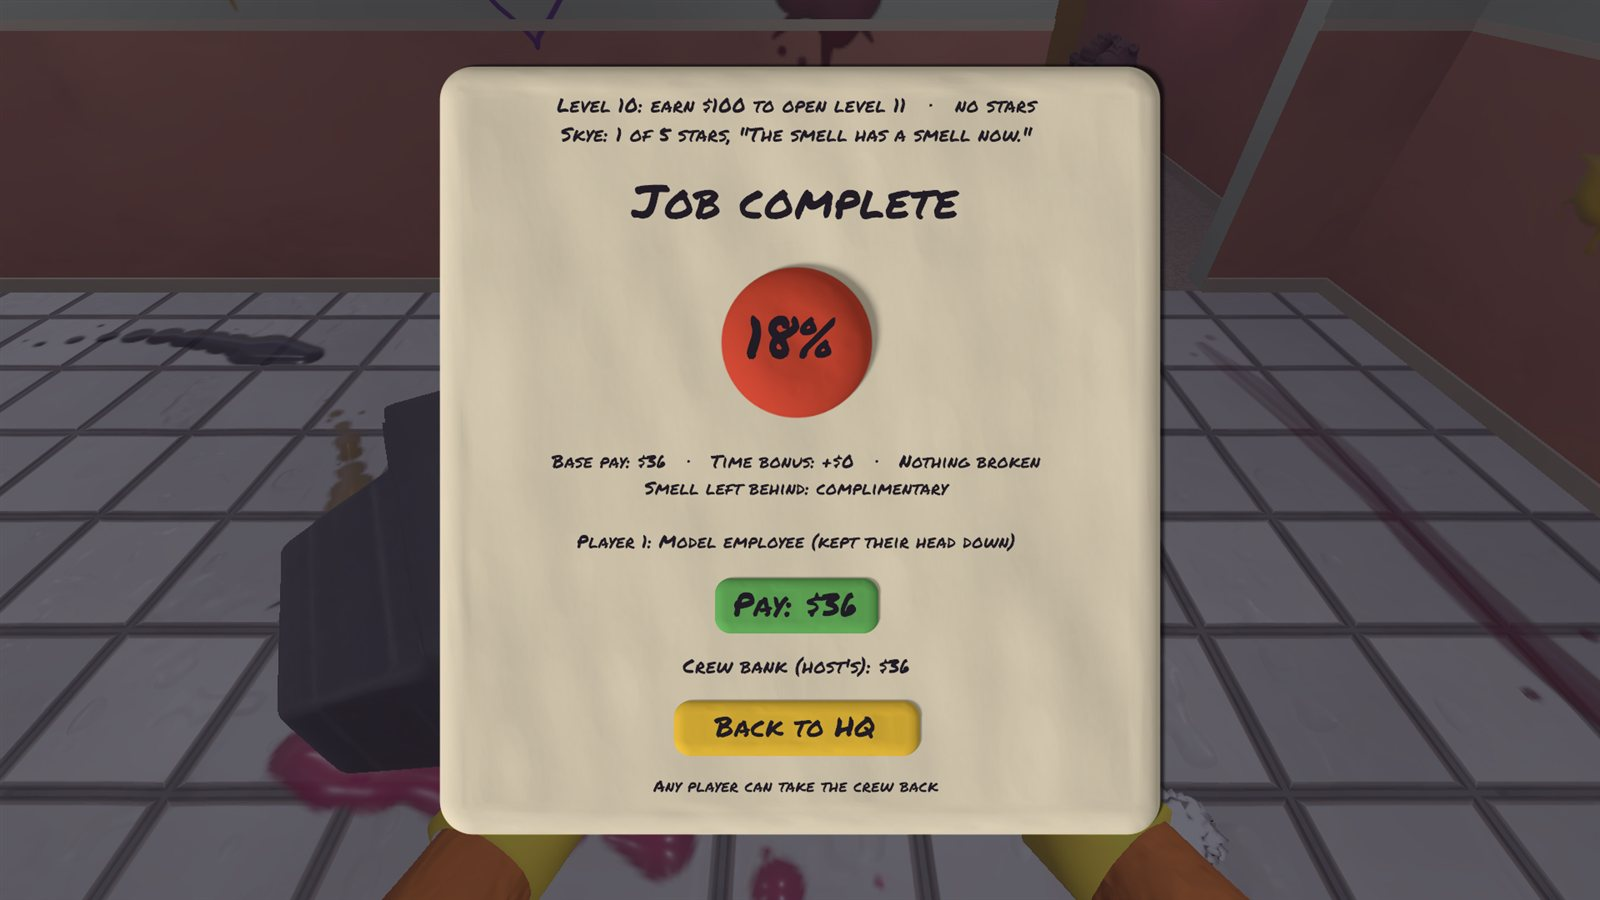
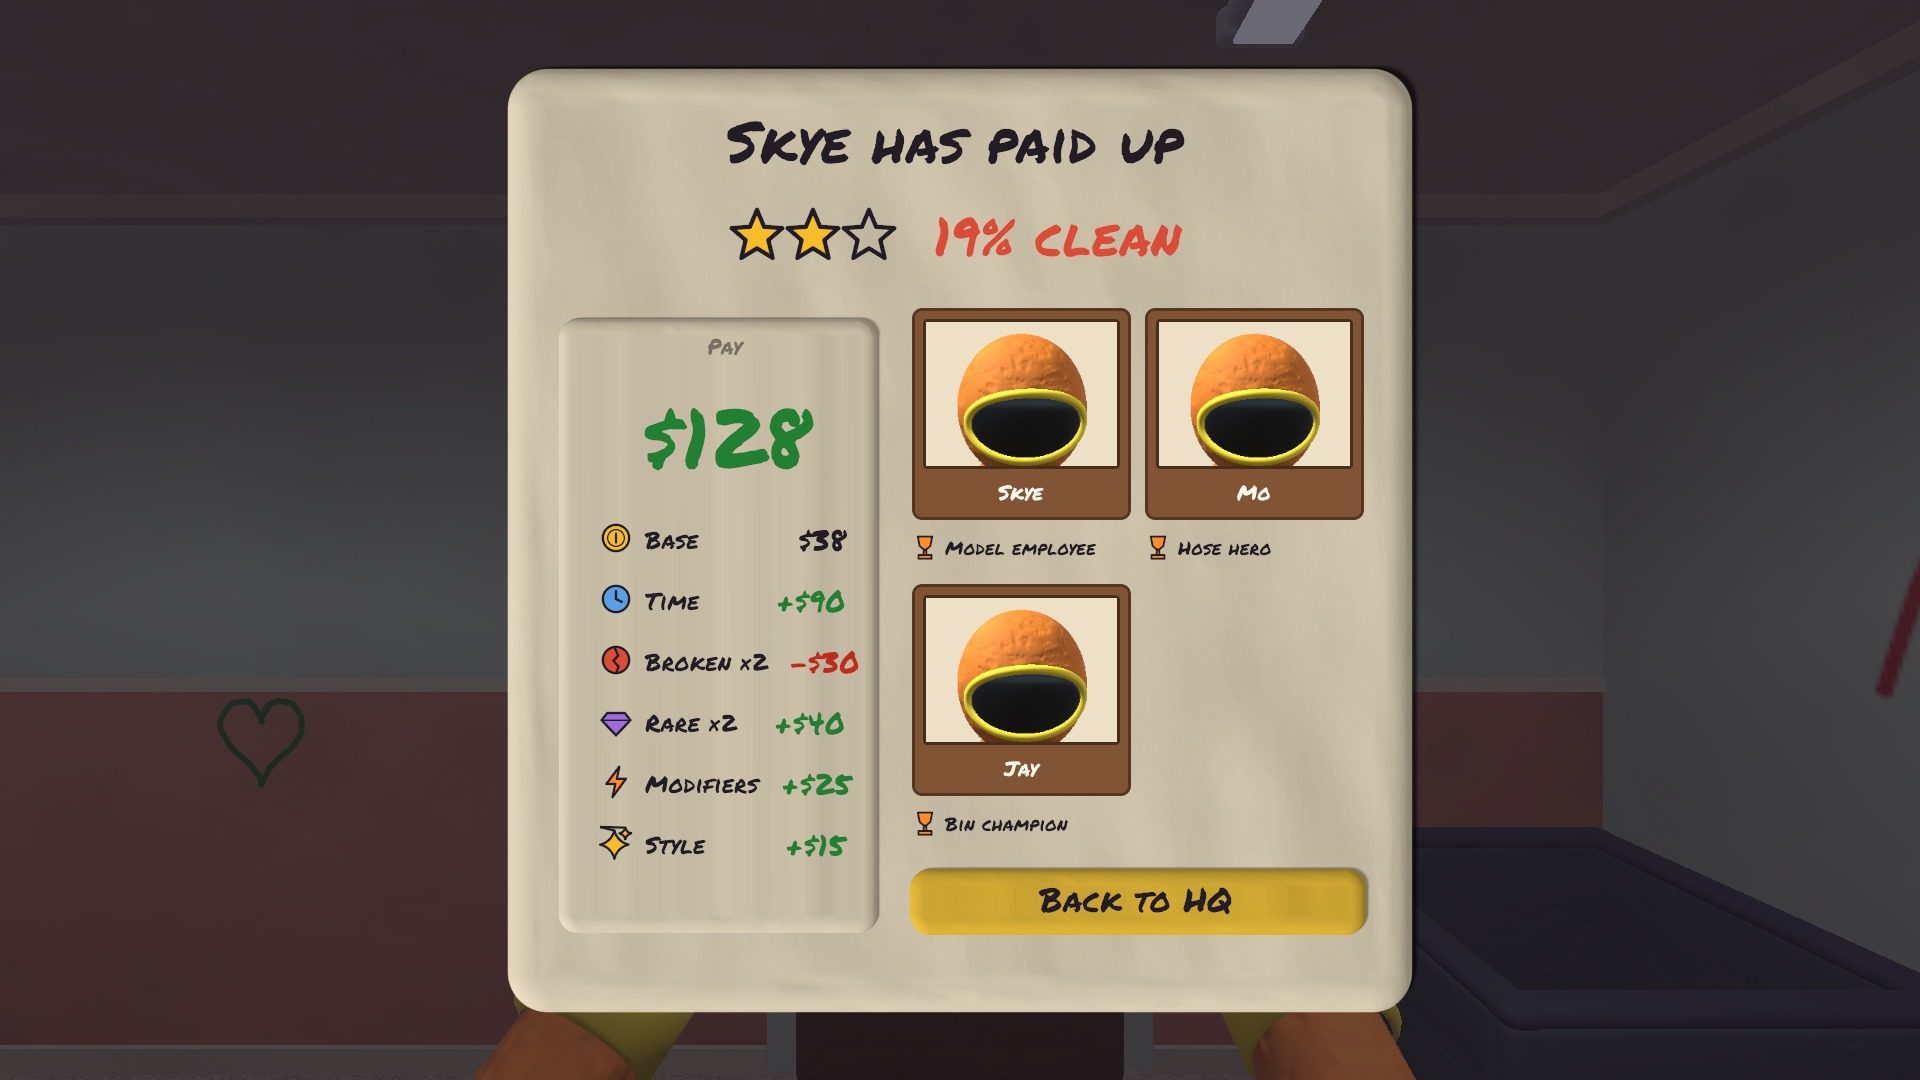
README: front door, job-complete screen, 15-letter names; new job-complete screenshot; 0.3 screenshots

diff --git a/README.md b/README.md
@@ -37,7 +37,7 @@ This repository only holds playable builds. Download the latest zip from the [Re
 *The owner's inspection*
 
 ![Job complete](screenshots/11-job-complete.jpg)
-*Job complete*
+*Job complete: stars and how clean, the pay, and the crew with their awards*
 
 ## Features
 
@@ -63,7 +63,8 @@ This repository only holds playable builds. Download the latest zip from the [Re
 - **Grab** things with a stretchy clay rope, throw them, and bonk trash off your crew.
 - The chaos is part of the game: washer knockback, wet floors that make you slip, the hose tripping you, clay flops, banana peels, dragging a crewmate by the rope and even **binning them**.
 - At the end of the job the crew is lined up for the **owner's inspection**: one of ten mean owners walks every room, then slaps a random player if the house is below the pass mark, and hands over the cash.
-- A **sliding front door** you hold open for the owner, and an invoice that blames players for broken items.
+- A **front door** you hold for 5 seconds to finish the job: a clay ring fills on the door and the whole crew sees it. It swings open for the owner, with the street outside, and an invoice that blames players for broken items.
+- A **job-complete screen** with your star rating, how clean the house is, the pay split into icon lines (base, time, broken, rare, modifiers, style) and a picture frame for each crew member with their helmet, name and award. Hold Tab for the long text (invoice, level, daily best, owner review).
 
 ### Co-op
 - Play **solo or with up to 4 players online**. One player hosts and shares a join code; there is no port forwarding.
@@ -79,7 +80,7 @@ A walk-around hangout between jobs:
 - **Lockers and a mirror** to change how you look.
 
 ### Your look
-- Everyone wears a clay cleaning suit with a dark visor. Choose three colours (suit, trim, gloves and boots) from ten swatches, type your own nickname, and decorate the suit with **preset art**: ten patterns (stripes, hazard, checker, dots, camo, stars, zigzag, waves, grid) and an ink colour for each of the helmet, torso, arms and legs.
+- Everyone wears a clay cleaning suit with a dark visor. Choose three colours (suit, trim, gloves and boots) from ten swatches, type your own nickname (up to 15 letters), and decorate the suit with **preset art**: ten patterns (stripes, hazard, checker, dots, camo, stars, zigzag, waves, grid) and an ink colour for each of the helmet, torso, arms and legs.
 
 ### The HUD
 - A small beige card at the top left shows two bars: **time left** (a clock) and **how clean the house is** (a sparkle). The time bar turns red in the last minute.
